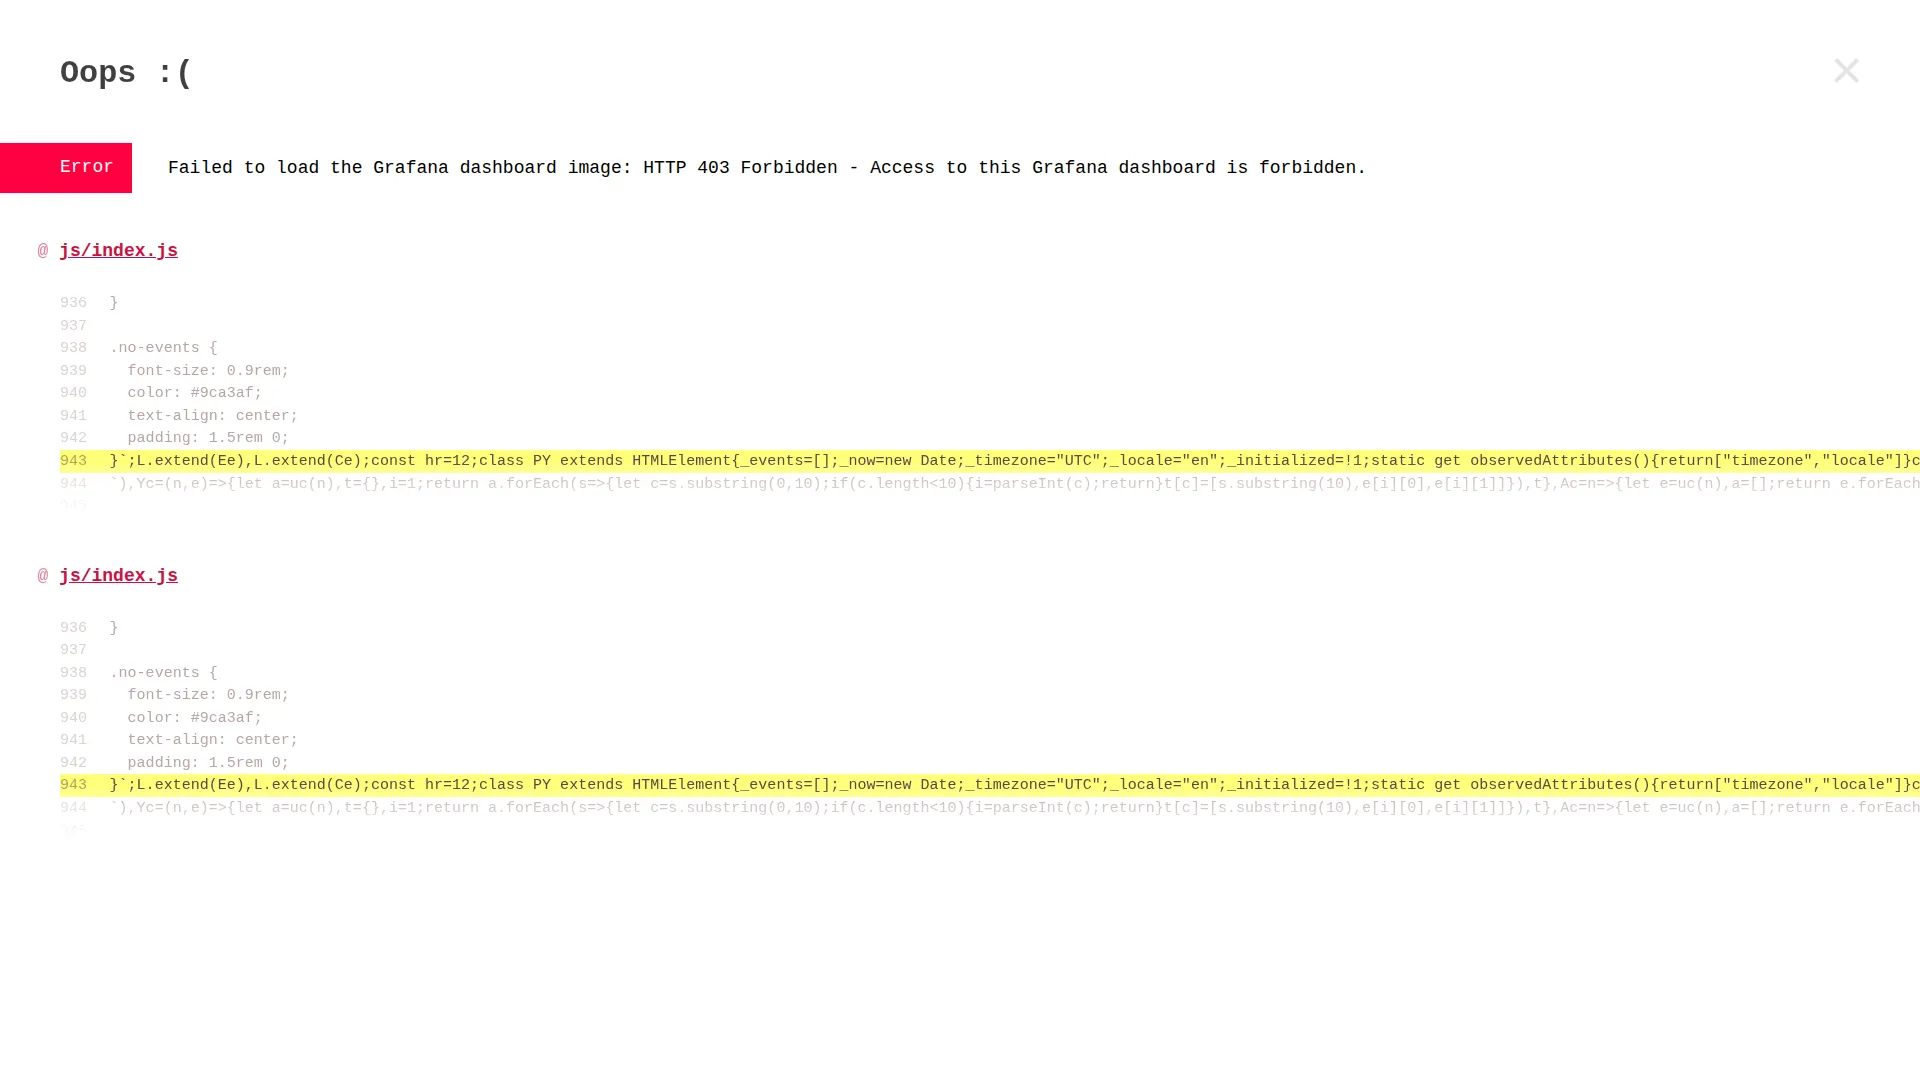
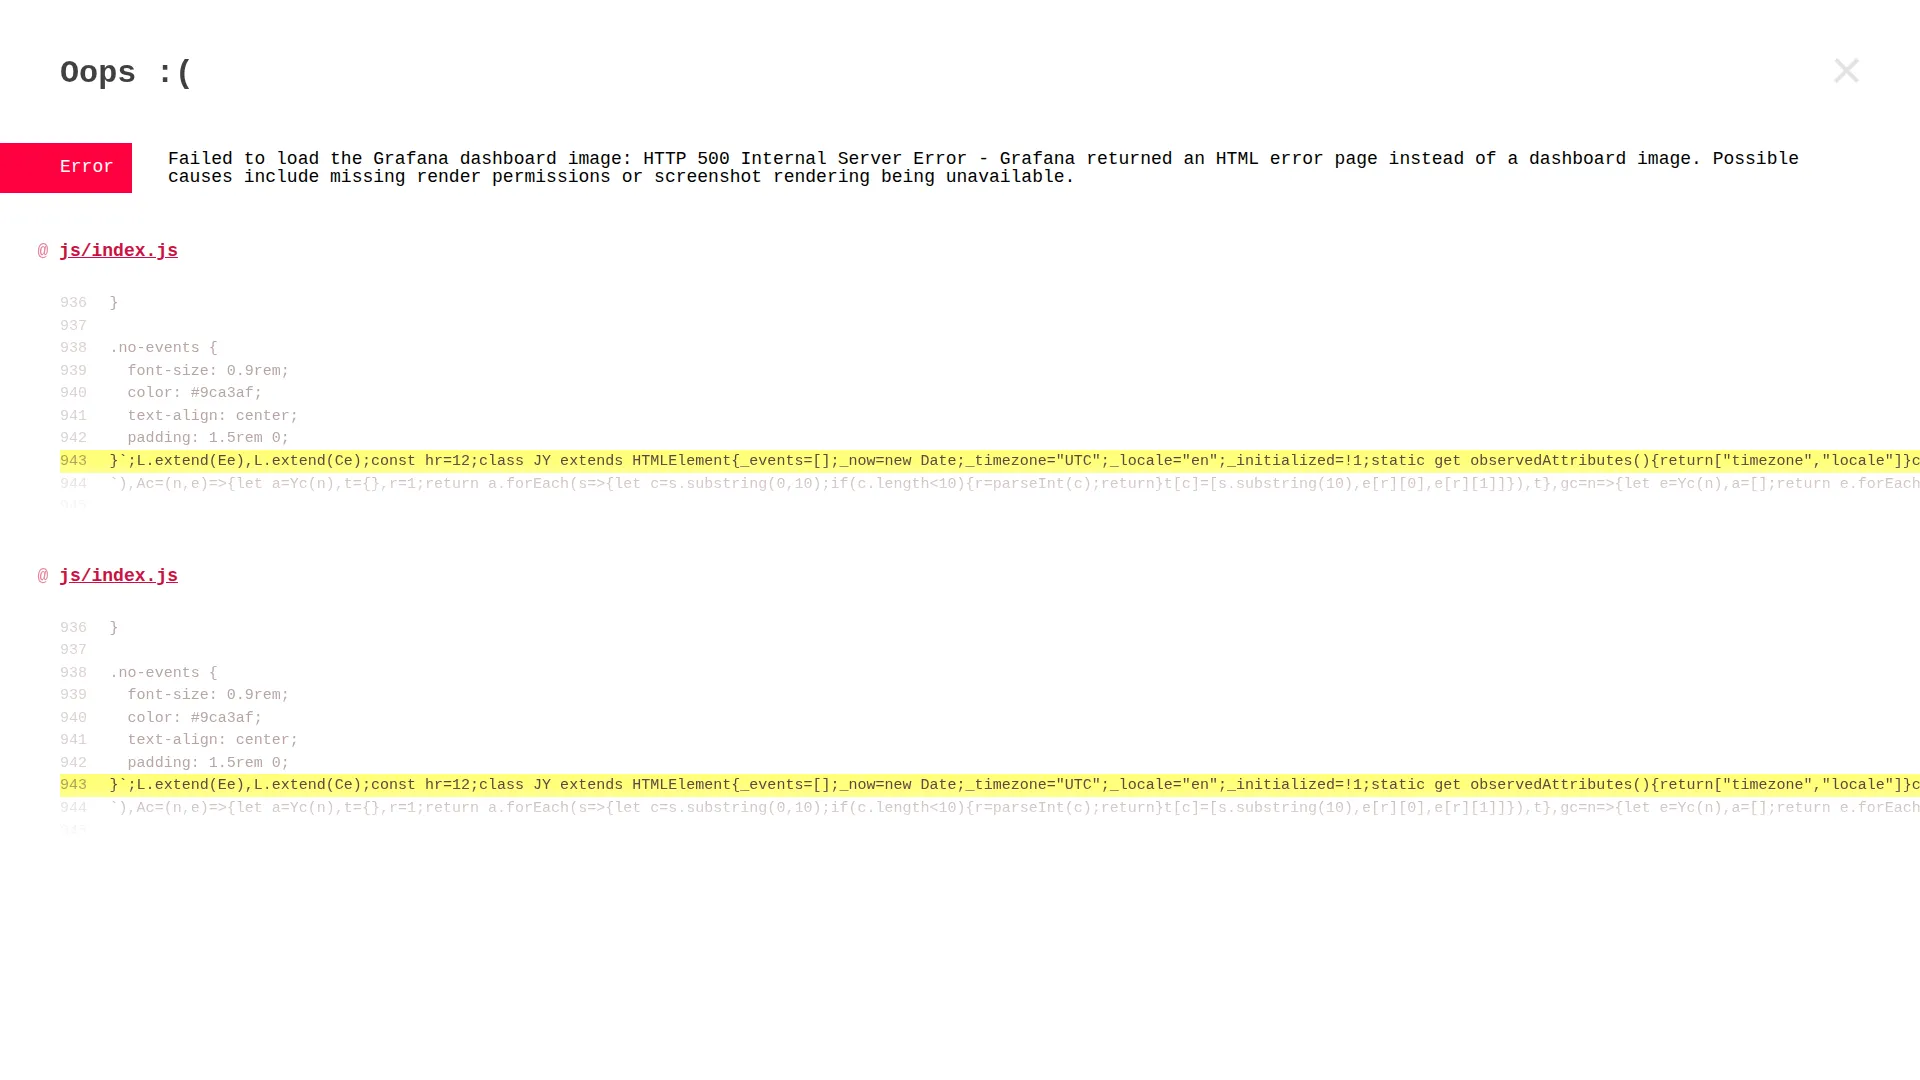
fix(grafana): improve rendered dashboard error handling
- sanitize HTML error pages into readable messages
- cover Grafana HTML error responses in unit tests
- refresh display-errors screenshot fixtures

Changed region(s): [[0.0938, 0.1222, 0.9375, 0.1833]]

diff --git a/edge-apps/grafana/src/main.test.ts b/edge-apps/grafana/src/main.test.ts
@@ -22,6 +22,35 @@ Object.assign(globalThis.window, {
   innerHeight: 567,
 })
 
+const RENDER_URL = 'https://example.com/render'
+const TOKEN = 'token123'
+
+const imgElement = {
+  setAttribute: mock(() => {}),
+  src: '',
+} as unknown as HTMLImageElement
+
+let originalFetch: typeof fetch
+let originalCreateObjectURL: typeof URL.createObjectURL
+let originalRevokeObjectURL: typeof URL.revokeObjectURL
+
+function mockSuccessfulFetch(objectUrl = 'blob:fake-url') {
+  globalThis.fetch = mock(async () => ({
+    ok: true,
+    blob: async () => new Blob(['data'], { type: 'image/png' }),
+  })) as unknown as typeof fetch
+  globalThis.URL.createObjectURL = mock(() => objectUrl)
+}
+
+function mockFailedFetch(status: number, statusText: string, body = '') {
+  globalThis.fetch = mock(async () => ({
+    ok: false,
+    status,
+    statusText,
+    text: async () => body,
+  })) as unknown as typeof fetch
+}
+
 describe('getRenderUrl', () => {
   let originalScreenWidth: number
   let originalScreenHeight: number
@@ -84,26 +113,6 @@ describe('getRenderUrl', () => {
 })
 
 describe('fetchAndRenderDashboard', () => {
-  const RENDER_URL = 'https://example.com/render'
-  const TOKEN = 'token123'
-
-  const imgElement = {
-    setAttribute: mock(() => {}),
-    src: '',
-  } as unknown as HTMLImageElement
-
-  let originalFetch: typeof fetch
-  let originalCreateObjectURL: typeof URL.createObjectURL
-  let originalRevokeObjectURL: typeof URL.revokeObjectURL
-
-  function mockSuccessfulFetch(objectUrl = 'blob:fake-url') {
-    globalThis.fetch = mock(async () => ({
-      ok: true,
-      blob: async () => new Blob(['data'], { type: 'image/png' }),
-    })) as unknown as typeof fetch
-    globalThis.URL.createObjectURL = mock(() => objectUrl)
-  }
-
   beforeEach(() => {
     originalFetch = globalThis.fetch
     originalCreateObjectURL = globalThis.URL.createObjectURL
@@ -117,15 +126,6 @@ describe('fetchAndRenderDashboard', () => {
     globalThis.URL.createObjectURL = originalCreateObjectURL
     globalThis.URL.revokeObjectURL = originalRevokeObjectURL
   })
-
-  function mockFailedFetch(status: number, statusText: string, body = '') {
-    globalThis.fetch = mock(async () => ({
-      ok: false,
-      status,
-      statusText,
-      text: async () => body,
-    })) as unknown as typeof fetch
-  }
 
   test('should render the image when fetch succeeds', async () => {
     mockSuccessfulFetch()
@@ -159,6 +159,26 @@ describe('fetchAndRenderDashboard', () => {
     expect(
       fetchAndRenderDashboard(RENDER_URL, 'bad-token', imgElement),
     ).rejects.toThrow('HTTP 403 Forbidden - Access denied for this user')
+  })
+
+  test('should replace HTML error pages with a friendly Grafana hint', async () => {
+    mockFailedFetch(
+      500,
+      'Internal Server Error',
+      `<!DOCTYPE html>
+<html lang="en">
+  <head>
+    <title>Grafana - Error</title>
+  </head>
+  <body>Forbidden</body>
+</html>`,
+    )
+
+    expect(
+      fetchAndRenderDashboard(RENDER_URL, 'bad-token', imgElement),
+    ).rejects.toThrow(
+      'HTTP 500 Internal Server Error - Grafana returned an HTML error page instead of a dashboard image. Possible causes include missing render permissions or screenshot rendering being unavailable.',
+    )
   })
 
   test('should throw on network error', async () => {

diff --git a/edge-apps/grafana/src/render.ts b/edge-apps/grafana/src/render.ts
@@ -11,6 +11,62 @@ export function getRenderUrl(domain: string, dashboardId: string): string {
   return `${renderUrl}?${params.toString()}`
 }
 
+function decodeHtmlEntities(value: string): string {
+  return value
+    .replace(/&nbsp;/gi, ' ')
+    .replace(/&amp;/gi, '&')
+    .replace(/&lt;/gi, '<')
+    .replace(/&gt;/gi, '>')
+    .replace(/&quot;/gi, '"')
+    .replace(/&#39;/gi, "'")
+}
+
+function extractErrorDetail(body: string, status: number): string {
+  if (!body) {
+    return ''
+  }
+
+  const trimmedBody = body.trim()
+  const isHtml = /<!doctype html|<html[\s>]|<head[\s>]|<body[\s>]/i.test(
+    trimmedBody,
+  )
+
+  if (!isHtml) {
+    return trimmedBody
+  }
+
+  const titleMatch = trimmedBody.match(/<title[^>]*>(.*?)<\/title>/i)
+  const title = titleMatch
+    ? decodeHtmlEntities(titleMatch[1].replace(/\s+/g, ' ').trim())
+    : ''
+  const textContent = decodeHtmlEntities(
+    trimmedBody
+      .replace(/<[^>]*>/g, ' ')
+      .replace(/\s+/g, ' ')
+      .trim(),
+  )
+  const textWithoutTitle = title
+    ? textContent.replace(title, '').replace(/\s+/g, ' ').trim()
+    : textContent
+
+  if (/forbidden/i.test(textContent)) {
+    return 'Grafana returned an HTML error page instead of a dashboard image. Possible causes include missing render permissions or screenshot rendering being unavailable.'
+  }
+
+  if (status >= 500) {
+    return 'Grafana returned an HTML error page instead of a dashboard image. Possible causes include screenshot rendering being unavailable or the renderer being unable to access the dashboard.'
+  }
+
+  const htmlSummary = [title, textWithoutTitle]
+    .filter(Boolean)
+    .join(' - ')
+    .trim()
+
+  return (
+    htmlSummary || 'Grafana returned an HTML error page instead of an image.'
+  )
+}
+
 export async function fetchAndRenderDashboard(
   imageUrl: string,
   serviceAccessToken: string,
@@ -20,15 +76,15 @@ export async function fetchAndRenderDashboard(
     method: 'GET',
     headers: {
       Authorization: `Bearer ${serviceAccessToken}`,
-      'Content-Type': 'image/png',
     },
   })
 
   if (!response.ok) {
     const body = (await response.text()).trim()
-    const detail = body ? ` - ${body}` : ''
+    const detail = extractErrorDetail(body, response.status)
+    const suffix = detail ? ` - ${detail}` : ''
     throw new Error(
-      `Failed to load the Grafana dashboard image: HTTP ${response.status} ${response.statusText}${detail}`,
+      `Failed to load the Grafana dashboard image: HTTP ${response.status} ${response.statusText}${suffix}`,
     )
   }
 

diff --git a/edge-apps/grafana/e2e/screenshots.spec.ts b/edge-apps/grafana/e2e/screenshots.spec.ts
@@ -36,6 +36,14 @@ const { screenlyJsContent: screenlyJsContentWithErrors } =
 const dashboardImage = fs.readFileSync(
   path.resolve('e2e/fixtures/sample-grafana-dashboard.png'),
 )
+const grafanaHtmlErrorPage = `<!DOCTYPE html>
+<html lang="en">
+  <head>
+    <meta charset="utf-8" />
+    <title>Grafana - Error</title>
+  </head>
+  <body>Forbidden</body>
+</html>`
 
 const DISPLAY_ERRORS_RESOLUTIONS = [
   { width: 1920, height: 1080 },
@@ -109,9 +117,9 @@ for (const { width, height } of DISPLAY_ERRORS_RESOLUTIONS) {
       `${width}x${height}-display-errors.png`,
       async (route) =>
         route.fulfill({
-          status: 403,
-          contentType: 'text/plain',
-          body: 'Access to this Grafana dashboard is forbidden.',
+          status: 500,
+          contentType: 'text/html',
+          body: grafanaHtmlErrorPage,
         }),
     )
   })